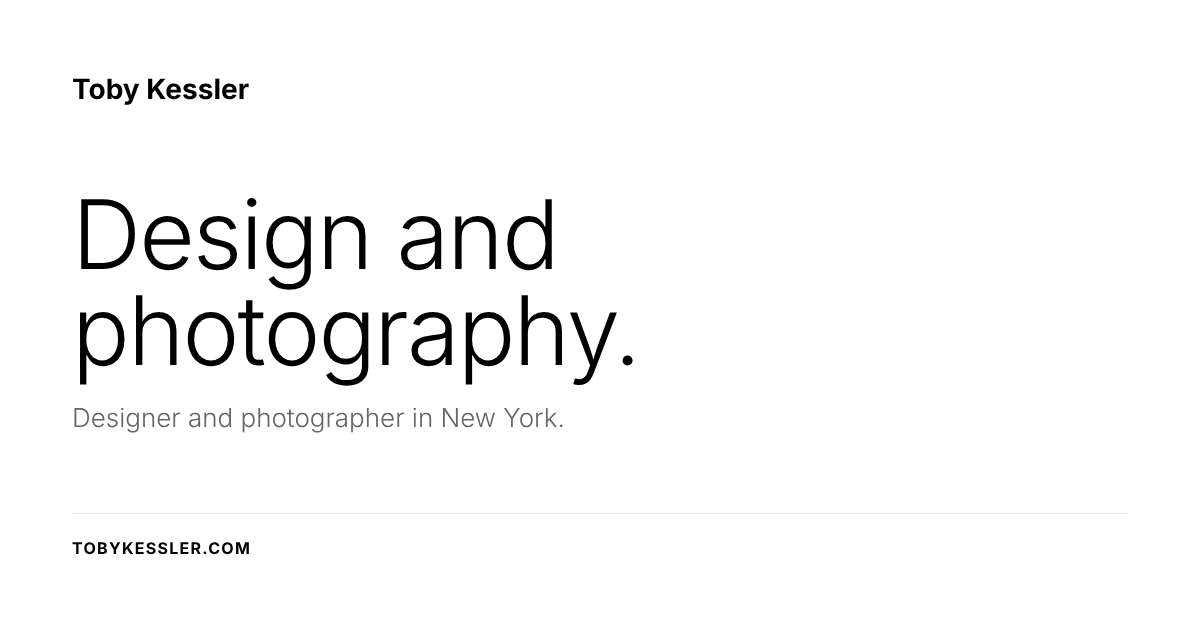
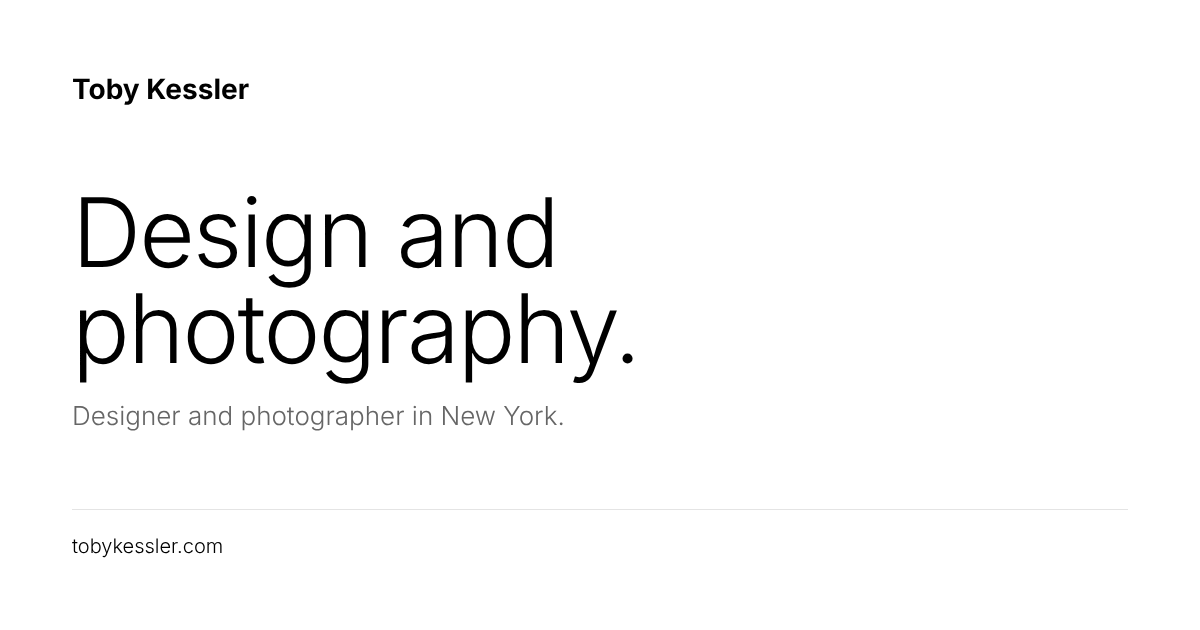
Remove all-caps styling and hide header name on home
Claude-Session: https://claude.ai/code/session_01WgZtNNU4QNFV3DsU6epYe3

diff --git a/css/site.css b/css/site.css
@@ -34,7 +34,7 @@ a { color: inherit; }
 .title { font-size: 20px; line-height: 26px; font-weight: 700; margin: 0; }
 .lead { font-size: 20px; line-height: 30px; font-weight: 300; margin: 0; }
 .caption { font-size: 13px; line-height: 18px; font-weight: 300; color: var(--grey-600); margin: 0; }
-.label { font-size: 11px; line-height: 16px; font-weight: 700; letter-spacing: .08em; text-transform: uppercase; margin: 0; }
+.label { font-size: 13px; line-height: 18px; font-weight: 700; margin: 0; }
 .muted { color: var(--grey-600); }
 @media (max-width: 720px) {
   .display { font-size: 44px; line-height: 46px; }
@@ -47,7 +47,7 @@ a { color: inherit; }
 .site-header .wrap { display: flex; flex-wrap: wrap; align-items: baseline; justify-content: space-between; gap: var(--space-2) var(--space-6); }
 .site-name { font-size: 20px; line-height: 26px; font-weight: 700; text-decoration: none; }
 .site-nav { display: flex; flex-wrap: wrap; gap: var(--space-2) var(--space-6); }
-.site-nav a { font-size: 11px; line-height: 16px; font-weight: 700; letter-spacing: .08em; text-transform: uppercase; text-decoration: none; color: var(--grey-600); padding: 4px 0; border-bottom: 1px solid transparent; }
+.site-nav a { font-size: 14px; line-height: 20px; font-weight: 400; text-decoration: none; color: var(--grey-600); padding: 4px 0; border-bottom: 1px solid transparent; }
 .site-nav a:hover { color: var(--ink); }
 .site-nav a[aria-current="page"] { color: var(--ink); border-bottom-color: var(--ink); }
 
@@ -60,11 +60,11 @@ main { padding-bottom: var(--space-12); }
 .section-head .text { max-width: 640px; }
 .section-head .label { color: var(--grey-600); margin-bottom: var(--space-2); }
 .section-head .summary { margin: var(--space-2) 0 0; font-weight: 300; color: var(--grey-600); }
-.more { font-size: 11px; line-height: 16px; font-weight: 700; letter-spacing: .08em; text-transform: uppercase; text-decoration: none; white-space: nowrap; border-bottom: 1px solid var(--ink); padding-bottom: 2px; }
+.more { font-size: 14px; line-height: 20px; font-weight: 400; text-decoration: none; white-space: nowrap; border-bottom: 1px solid var(--ink); padding-bottom: 2px; }
 .more:hover { color: var(--grey-600); border-bottom-color: var(--grey-600); }
 
 .subnav { display: flex; flex-wrap: wrap; gap: var(--space-2) var(--space-6); margin-top: var(--space-6); }
-.subnav a { font-size: 11px; line-height: 16px; font-weight: 700; letter-spacing: .08em; text-transform: uppercase; text-decoration: none; border-bottom: 1px solid var(--grey-200); padding-bottom: 2px; }
+.subnav a { font-size: 14px; line-height: 20px; font-weight: 400; text-decoration: none; border-bottom: 1px solid var(--grey-200); padding-bottom: 2px; }
 .subnav a:hover { border-bottom-color: var(--ink); }
 
 /* Contact */
@@ -97,7 +97,7 @@ main { padding-bottom: var(--space-12); }
 .pf-lb-figure { grid-column: 2; grid-row: 1; margin: 0; height: 100%; min-height: 0; display: flex; flex-direction: column; align-items: center; justify-content: center; }
 .pf-lb-img { display: block; flex: 0 1 auto; min-height: 0; max-width: 100%; max-height: 100%; object-fit: contain; border-radius: var(--radius-none); }
 .pf-lb-cap { flex: none; text-align: center; max-width: 100%; }
-.pf-lb-btn { font: inherit; font-size: 11px; line-height: 16px; font-weight: 700; letter-spacing: .08em; text-transform: uppercase; color: var(--ink); background: none; border: 0; border-radius: var(--radius-none); padding: var(--space-2); cursor: pointer; display: inline-flex; align-items: center; justify-content: center; }
+.pf-lb-btn { font: inherit; font-size: 14px; line-height: 20px; font-weight: 400; color: var(--ink); background: none; border: 0; border-radius: var(--radius-none); padding: var(--space-2); cursor: pointer; display: inline-flex; align-items: center; justify-content: center; }
 .pf-lb-btn:hover { color: var(--grey-600); }
 .pf-lb-btn:disabled { color: var(--grey-400); cursor: default; }
 .pf-lb-nav { justify-self: center; width: 48px; height: 48px; padding: 0; }
@@ -121,3 +121,6 @@ main { padding-bottom: var(--space-12); }
 .about-co { font-weight: 700; text-decoration: none; }
 .about-co:hover { text-decoration: underline; text-underline-offset: 4px; }
 @media (max-width: 900px) { .about { grid-template-columns: 1fr; } }
+
+/* Home page shows the name as the big heading, so the small header name is hidden there */
+.site-header.is-home .site-nav { margin-left: auto; }

diff --git a/index.html b/index.html
@@ -19,9 +19,8 @@
   <link rel="stylesheet" href="css/site.css">
 </head>
 <body>
-  <header class="site-header">
+  <header class="site-header is-home">
     <div class="wrap">
-      <a class="site-name" href="index.html">Toby Kessler</a>
       <nav class="site-nav" aria-label="Main"><a href="index.html" aria-current="page">Work</a><a href="design.html">Design</a><a href="photography.html">Photography</a><a href="about.html">About</a><a href="contact.html">Contact</a></nav>
     </div>
   </header>
